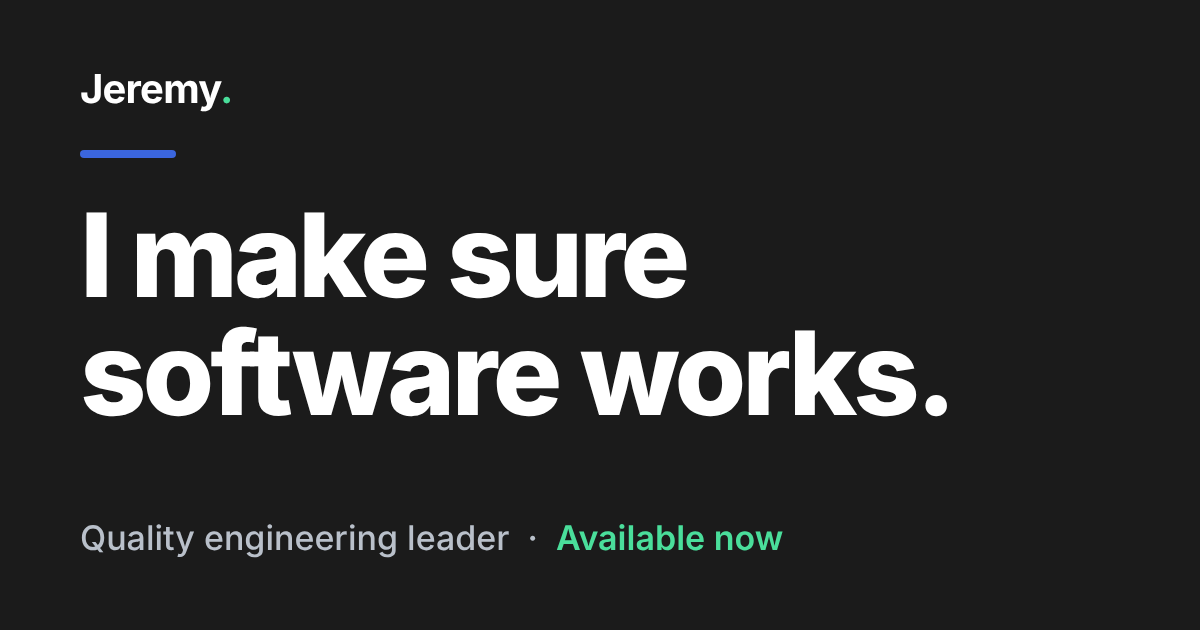
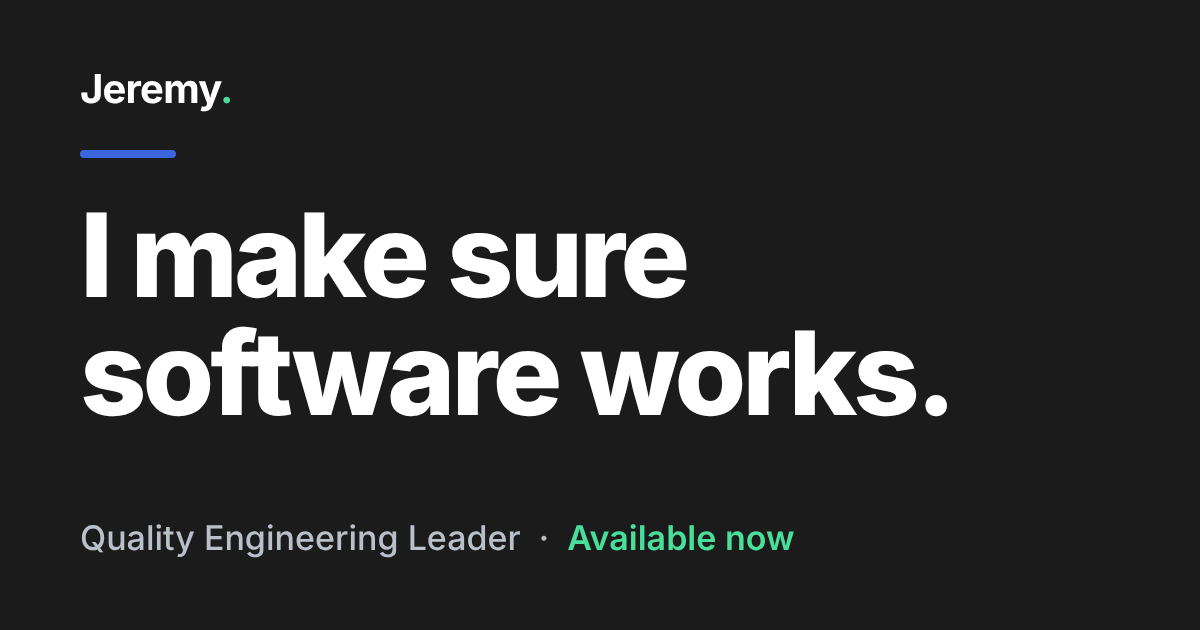
Title-case 'Quality Engineering Leader' in titles, tags, and share image
Claude-Session: https://claude.ai/code/session_01VtQCQ83rj4YLtBpmbMGGsa

Changed region(s): [[0.4625, 0.8143, 0.6783, 0.8746], [0.1542, 0.8143, 0.4317, 0.8746]]

diff --git a/index.html b/index.html
@@ -3,16 +3,16 @@
 <head>
 <meta charset="utf-8">
 <meta name="viewport" content="width=device-width, initial-scale=1">
-<title>Jeremy | Quality engineering leader</title>
+<title>Jeremy | Quality Engineering Leader</title>
 <meta name="description" content="QA leader for mobile and web software. I design the systems that test it, including AI that drafts tests while people decide what ships.">
 <meta property="og:type" content="website">
 <meta property="og:site_name" content="Jeremy">
-<meta property="og:title" content="Jeremy | Quality engineering leader">
+<meta property="og:title" content="Jeremy | Quality Engineering Leader">
 <meta property="og:description" content="QA leader for mobile and web software. I design the systems that test it, including AI that drafts tests while people decide what ships.">
 <meta property="og:image" content="https://www.jeremy-back.com/assets/og-image.png">
 <meta property="og:image:width" content="1200">
 <meta property="og:image:height" content="630">
-<meta property="og:image:alt" content="I make sure software works. Quality engineering leader, available now.">
+<meta property="og:image:alt" content="I make sure software works. Quality Engineering Leader, available now.">
 <meta name="twitter:card" content="summary_large_image">
 <link rel="icon" href="/favicon.svg" type="image/svg+xml">
 <link rel="preconnect" href="https://fonts.googleapis.com">

diff --git a/404.html b/404.html
@@ -7,11 +7,11 @@
 <meta property="og:type" content="website">
 <meta property="og:site_name" content="Jeremy">
 <meta property="og:title" content="Page not found | Jeremy">
-<meta property="og:description" content="Quality engineering leader. Available now.">
+<meta property="og:description" content="Quality Engineering Leader. Available now.">
 <meta property="og:image" content="https://www.jeremy-back.com/assets/og-image.png">
 <meta property="og:image:width" content="1200">
 <meta property="og:image:height" content="630">
-<meta property="og:image:alt" content="I make sure software works. Quality engineering leader, available now.">
+<meta property="og:image:alt" content="I make sure software works. Quality Engineering Leader, available now.">
 <meta name="twitter:card" content="summary_large_image">
 <meta name="robots" content="noindex">
 <link rel="icon" href="/favicon.svg" type="image/svg+xml">

diff --git a/about.html b/about.html
@@ -12,7 +12,7 @@
 <meta property="og:image" content="https://www.jeremy-back.com/assets/og-image.png">
 <meta property="og:image:width" content="1200">
 <meta property="og:image:height" content="630">
-<meta property="og:image:alt" content="I make sure software works. Quality engineering leader, available now.">
+<meta property="og:image:alt" content="I make sure software works. Quality Engineering Leader, available now.">
 <meta name="twitter:card" content="summary_large_image">
 <link rel="icon" href="/favicon.svg" type="image/svg+xml">
 <link rel="preconnect" href="https://fonts.googleapis.com">

diff --git a/contact.html b/contact.html
@@ -12,7 +12,7 @@
 <meta property="og:image" content="https://www.jeremy-back.com/assets/og-image.png">
 <meta property="og:image:width" content="1200">
 <meta property="og:image:height" content="630">
-<meta property="og:image:alt" content="I make sure software works. Quality engineering leader, available now.">
+<meta property="og:image:alt" content="I make sure software works. Quality Engineering Leader, available now.">
 <meta name="twitter:card" content="summary_large_image">
 <link rel="icon" href="/favicon.svg" type="image/svg+xml">
 <link rel="preconnect" href="https://fonts.googleapis.com">

diff --git a/testimonials.html b/testimonials.html
@@ -12,7 +12,7 @@
 <meta property="og:image" content="https://www.jeremy-back.com/assets/og-image.png">
 <meta property="og:image:width" content="1200">
 <meta property="og:image:height" content="630">
-<meta property="og:image:alt" content="I make sure software works. Quality engineering leader, available now.">
+<meta property="og:image:alt" content="I make sure software works. Quality Engineering Leader, available now.">
 <meta name="twitter:card" content="summary_large_image">
 <link rel="icon" href="/favicon.svg" type="image/svg+xml">
 <link rel="preconnect" href="https://fonts.googleapis.com">

diff --git a/work.html b/work.html
@@ -12,7 +12,7 @@
 <meta property="og:image" content="https://www.jeremy-back.com/assets/og-image.png">
 <meta property="og:image:width" content="1200">
 <meta property="og:image:height" content="630">
-<meta property="og:image:alt" content="I make sure software works. Quality engineering leader, available now.">
+<meta property="og:image:alt" content="I make sure software works. Quality Engineering Leader, available now.">
 <meta name="twitter:card" content="summary_large_image">
 <link rel="icon" href="/favicon.svg" type="image/svg+xml">
 <link rel="preconnect" href="https://fonts.googleapis.com">

diff --git a/work/agents.html b/work/agents.html
@@ -12,7 +12,7 @@
 <meta property="og:image" content="https://www.jeremy-back.com/assets/og-image.png">
 <meta property="og:image:width" content="1200">
 <meta property="og:image:height" content="630">
-<meta property="og:image:alt" content="I make sure software works. Quality engineering leader, available now.">
+<meta property="og:image:alt" content="I make sure software works. Quality Engineering Leader, available now.">
 <meta name="twitter:card" content="summary_large_image">
 <link rel="icon" href="/favicon.svg" type="image/svg+xml">
 <link rel="preconnect" href="https://fonts.googleapis.com">

diff --git a/work/wreath.html b/work/wreath.html
@@ -12,7 +12,7 @@
 <meta property="og:image" content="https://www.jeremy-back.com/assets/og-image.png">
 <meta property="og:image:width" content="1200">
 <meta property="og:image:height" content="630">
-<meta property="og:image:alt" content="I make sure software works. Quality engineering leader, available now.">
+<meta property="og:image:alt" content="I make sure software works. Quality Engineering Leader, available now.">
 <meta name="twitter:card" content="summary_large_image">
 <link rel="icon" href="/favicon.svg" type="image/svg+xml">
 <link rel="preconnect" href="https://fonts.googleapis.com">
